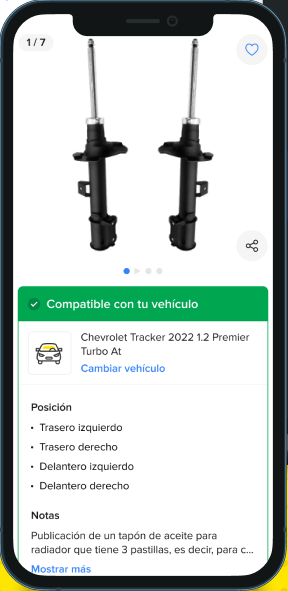
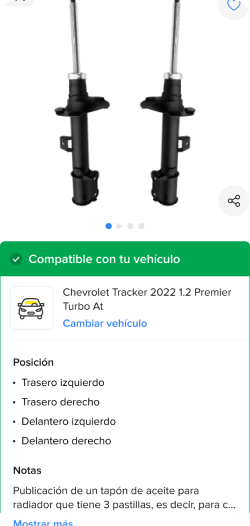
Widget: imagens sem bordas e sem cantos escuros
Claude-Session: https://claude.ai/code/session_01EkRQjg38t86SHaJ5Jegukf

diff --git a/index.html b/index.html
@@ -78,7 +78,7 @@
 <p class="wk-sub">Sellers add the position of the part in the listing form, so buyers know if it fits front, rear, left or right.</p>
 </a>
 <a class="wk" href="#widget-compatibilidade" data-case="widget-compatibilidade" aria-label="A compatibility widget that helps people buy the right part">
-<div class="wk-cover"><div class="wk-imgs" style="--cols:0.828fr 0.487fr 0.671fr"><img style="aspect-ratio:420/507" src="/widget-antes.png" alt="Widget before, in Spanish: the We don’t know if it’s compatible state and the Compatible state, with notes and position in grey text below" loading="lazy"><img style="aspect-ratio:288/591" src="/widget-final.png" alt="Product page on mobile, in Spanish, with the green header Compatible with your vehicle, the Chevrolet Tracker, the list of positions and the notes" loading="lazy"><img style="aspect-ratio:420/626" src="/widget-nao-sabemos.png" alt="Proposal, in Portuguese: the Compatible with your vehicle state, with where the part fits, and the We don’t know if it’s compatible state, with the reason and the See compatible products link" loading="lazy"></div></div>
+<div class="wk-cover"><div class="wk-imgs" style="--cols:0.828fr 0.475fr 0.628fr"><img style="aspect-ratio:420/507" src="/widget-antes.png" alt="Widget before, in Spanish: the We don’t know if it’s compatible state and the Compatible state, with notes and position in grey text below" loading="lazy"><img style="aspect-ratio:250/526" src="/widget-final.png" alt="Product page on mobile, in Spanish, with the green header Compatible with your vehicle, the Chevrolet Tracker, the list of positions and the notes" loading="lazy"><img style="aspect-ratio:318/506" src="/widget-nao-sabemos.png" alt="Proposal, in Portuguese: the Compatible with your vehicle state, with where the part fits, and the We don’t know if it’s compatible state, with the reason and the See compatible products link" loading="lazy"></div></div>
 <p class="wk-meta"><b>A compatibility widget that helps people buy the right part</b>&nbsp; Mercado Libre</p>
 <p class="wk-sub">Each widget state has one goal: buy knowing it fits, find a compatible option or check with the seller.</p>
 </a>
@@ -141,10 +141,10 @@
 <p class="cx-role"><b>Product and Content Designer</b><span>Mercado Libre</span></p>
 </div>
 <div class="cx-bleed">
-<div class="cx-strip imgs fx" style="--n:3;--cols:0.828fr 0.487fr 0.671fr">
+<div class="cx-strip imgs fx" style="--n:3;--cols:0.828fr 0.475fr 0.628fr">
 <img style="aspect-ratio:420/507" src="/widget-antes.png" alt="Widget before, in Spanish: the We don’t know if it’s compatible state and the Compatible state, with notes and position in grey text below" loading="lazy">
-<img style="aspect-ratio:288/591" src="/widget-final.png" alt="Product page on mobile, in Spanish, with the green header Compatible with your vehicle, the Chevrolet Tracker, the list of positions and the notes" loading="lazy">
-<img style="aspect-ratio:420/626" src="/widget-nao-sabemos.png" alt="Proposal, in Portuguese: the Compatible with your vehicle state, with where the part fits, and the We don’t know if it’s compatible state, with the reason and the See compatible products link" loading="lazy">
+<img style="aspect-ratio:250/526" src="/widget-final.png" alt="Product page on mobile, in Spanish, with the green header Compatible with your vehicle, the Chevrolet Tracker, the list of positions and the notes" loading="lazy">
+<img style="aspect-ratio:318/506" src="/widget-nao-sabemos.png" alt="Proposal, in Portuguese: the Compatible with your vehicle state, with where the part fits, and the We don’t know if it’s compatible state, with the reason and the See compatible products link" loading="lazy">
 </div>
 </div>
 <div class="cx-body fx">

diff --git a/es/index.html b/es/index.html
@@ -78,7 +78,7 @@
 <p class="wk-sub">El vendedor informa la posición de la pieza en el formulario de la publicación y el comprador sabe si va adelante, atrás, a la izquierda o a la derecha.</p>
 </a>
 <a class="wk" href="#widget-compatibilidade" data-case="widget-compatibilidade" aria-label="Un widget de compatibilidad que ayuda a comprar la pieza correcta">
-<div class="wk-cover"><div class="wk-imgs" style="--cols:0.828fr 0.487fr 0.671fr"><img style="aspect-ratio:420/507" src="/widget-antes.png" alt="Widget antes: los estados No sabemos si es compatible y Compatible, con notas y posición en texto gris abajo" loading="lazy"><img style="aspect-ratio:288/591" src="/widget-final.png" alt="Página de producto en la app con el encabezado verde Compatible con tu vehículo, el Chevrolet Tracker, la lista de posiciones y las notas" loading="lazy"><img style="aspect-ratio:420/626" src="/widget-nao-sabemos.png" alt="Propuesta, en portugués: el estado Compatible con tu vehículo, con dónde va la pieza, y el estado No sabemos si es compatible, con el motivo y el link Ver productos compatibles" loading="lazy"></div></div>
+<div class="wk-cover"><div class="wk-imgs" style="--cols:0.828fr 0.475fr 0.628fr"><img style="aspect-ratio:420/507" src="/widget-antes.png" alt="Widget antes: los estados No sabemos si es compatible y Compatible, con notas y posición en texto gris abajo" loading="lazy"><img style="aspect-ratio:250/526" src="/widget-final.png" alt="Página de producto en la app con el encabezado verde Compatible con tu vehículo, el Chevrolet Tracker, la lista de posiciones y las notas" loading="lazy"><img style="aspect-ratio:318/506" src="/widget-nao-sabemos.png" alt="Propuesta, en portugués: el estado Compatible con tu vehículo, con dónde va la pieza, y el estado No sabemos si es compatible, con el motivo y el link Ver productos compatibles" loading="lazy"></div></div>
 <p class="wk-meta"><b>Un widget de compatibilidad que ayuda a comprar la pieza correcta</b>&nbsp; Mercado Libre</p>
 <p class="wk-sub">Cada estado del widget tiene un objetivo: comprar sabiendo que sirve, encontrar una opción compatible o consultar al vendedor.</p>
 </a>
@@ -141,10 +141,10 @@
 <p class="cx-role"><b>Product y Content Designer</b><span>Mercado Libre</span></p>
 </div>
 <div class="cx-bleed">
-<div class="cx-strip imgs fx" style="--n:3;--cols:0.828fr 0.487fr 0.671fr">
+<div class="cx-strip imgs fx" style="--n:3;--cols:0.828fr 0.475fr 0.628fr">
 <img style="aspect-ratio:420/507" src="/widget-antes.png" alt="Widget antes: los estados No sabemos si es compatible y Compatible, con notas y posición en texto gris abajo" loading="lazy">
-<img style="aspect-ratio:288/591" src="/widget-final.png" alt="Página de producto en la app con el encabezado verde Compatible con tu vehículo, el Chevrolet Tracker, la lista de posiciones y las notas" loading="lazy">
-<img style="aspect-ratio:420/626" src="/widget-nao-sabemos.png" alt="Propuesta, en portugués: el estado Compatible con tu vehículo, con dónde va la pieza, y el estado No sabemos si es compatible, con el motivo y el link Ver productos compatibles" loading="lazy">
+<img style="aspect-ratio:250/526" src="/widget-final.png" alt="Página de producto en la app con el encabezado verde Compatible con tu vehículo, el Chevrolet Tracker, la lista de posiciones y las notas" loading="lazy">
+<img style="aspect-ratio:318/506" src="/widget-nao-sabemos.png" alt="Propuesta, en portugués: el estado Compatible con tu vehículo, con dónde va la pieza, y el estado No sabemos si es compatible, con el motivo y el link Ver productos compatibles" loading="lazy">
 </div>
 </div>
 <div class="cx-body fx">

diff --git a/pt/index.html b/pt/index.html
@@ -96,7 +96,7 @@
 <p class="wk-sub">O vendedor informa a posição da peça no formulário do anúncio e o comprador sabe se ela serve na dianteira, traseira, esquerda ou direita.</p>
 </a>
 <a class="wk" href="#widget-compatibilidade" data-case="widget-compatibilidade" aria-label="Widget de compatibilidade que ajuda a comprar a peça certa">
-<div class="wk-cover"><div class="wk-imgs" style="--cols:0.828fr 0.487fr 0.671fr"><img style="aspect-ratio:420/507" src="/widget-antes.png" alt="Widget antes: os estados No sabemos si es compatible e Compatible, com notas e posição em texto cinza embaixo" loading="lazy"><img style="aspect-ratio:288/591" src="/widget-final.png" alt="Página de produto no app com o cabeçalho verde Compatible con tu vehículo, o Chevrolet Tracker, a lista de posições e as notas" loading="lazy"><img style="aspect-ratio:420/626" src="/widget-nao-sabemos.png" alt="Proposta: o estado Compatível com seu veículo, com onde a peça se encaixa, e o estado Não sabemos se é compatível, com o motivo e o link Ver produtos compatíveis" loading="lazy"></div></div>
+<div class="wk-cover"><div class="wk-imgs" style="--cols:0.828fr 0.475fr 0.628fr"><img style="aspect-ratio:420/507" src="/widget-antes.png" alt="Widget antes: os estados No sabemos si es compatible e Compatible, com notas e posição em texto cinza embaixo" loading="lazy"><img style="aspect-ratio:250/526" src="/widget-final.png" alt="Página de produto no app com o cabeçalho verde Compatible con tu vehículo, o Chevrolet Tracker, a lista de posições e as notas" loading="lazy"><img style="aspect-ratio:318/506" src="/widget-nao-sabemos.png" alt="Proposta: o estado Compatível com seu veículo, com onde a peça se encaixa, e o estado Não sabemos se é compatível, com o motivo e o link Ver produtos compatíveis" loading="lazy"></div></div>
 <p class="wk-meta"><b>Widget de compatibilidade que ajuda a comprar a peça certa</b>&nbsp; Mercado Livre</p>
 <p class="wk-sub">Cada estado do widget tem um objetivo: comprar sabendo que serve, achar uma opção compatível ou confirmar com o vendedor.</p>
 </a>
@@ -159,10 +159,10 @@
 <p class="cx-role"><b>Product e Content Designer</b><span>Mercado Livre</span></p>
 </div>
 <div class="cx-bleed">
-<div class="cx-strip imgs fx" style="--n:3;--cols:0.828fr 0.487fr 0.671fr">
+<div class="cx-strip imgs fx" style="--n:3;--cols:0.828fr 0.475fr 0.628fr">
 <img style="aspect-ratio:420/507" src="/widget-antes.png" alt="Widget antes: os estados No sabemos si es compatible e Compatible, com notas e posição em texto cinza embaixo" loading="lazy">
-<img style="aspect-ratio:288/591" src="/widget-final.png" alt="Página de produto no app com o cabeçalho verde Compatible con tu vehículo, o Chevrolet Tracker, a lista de posições e as notas" loading="lazy">
-<img style="aspect-ratio:420/626" src="/widget-nao-sabemos.png" alt="Proposta: o estado Compatível com seu veículo, com onde a peça se encaixa, e o estado Não sabemos se é compatível, com o motivo e o link Ver produtos compatíveis" loading="lazy">
+<img style="aspect-ratio:250/526" src="/widget-final.png" alt="Página de produto no app com o cabeçalho verde Compatible con tu vehículo, o Chevrolet Tracker, a lista de posições e as notas" loading="lazy">
+<img style="aspect-ratio:318/506" src="/widget-nao-sabemos.png" alt="Proposta: o estado Compatível com seu veículo, com onde a peça se encaixa, e o estado Não sabemos se é compatível, com o motivo e o link Ver produtos compatíveis" loading="lazy">
 </div>
 </div>
 <div class="cx-body fx">
